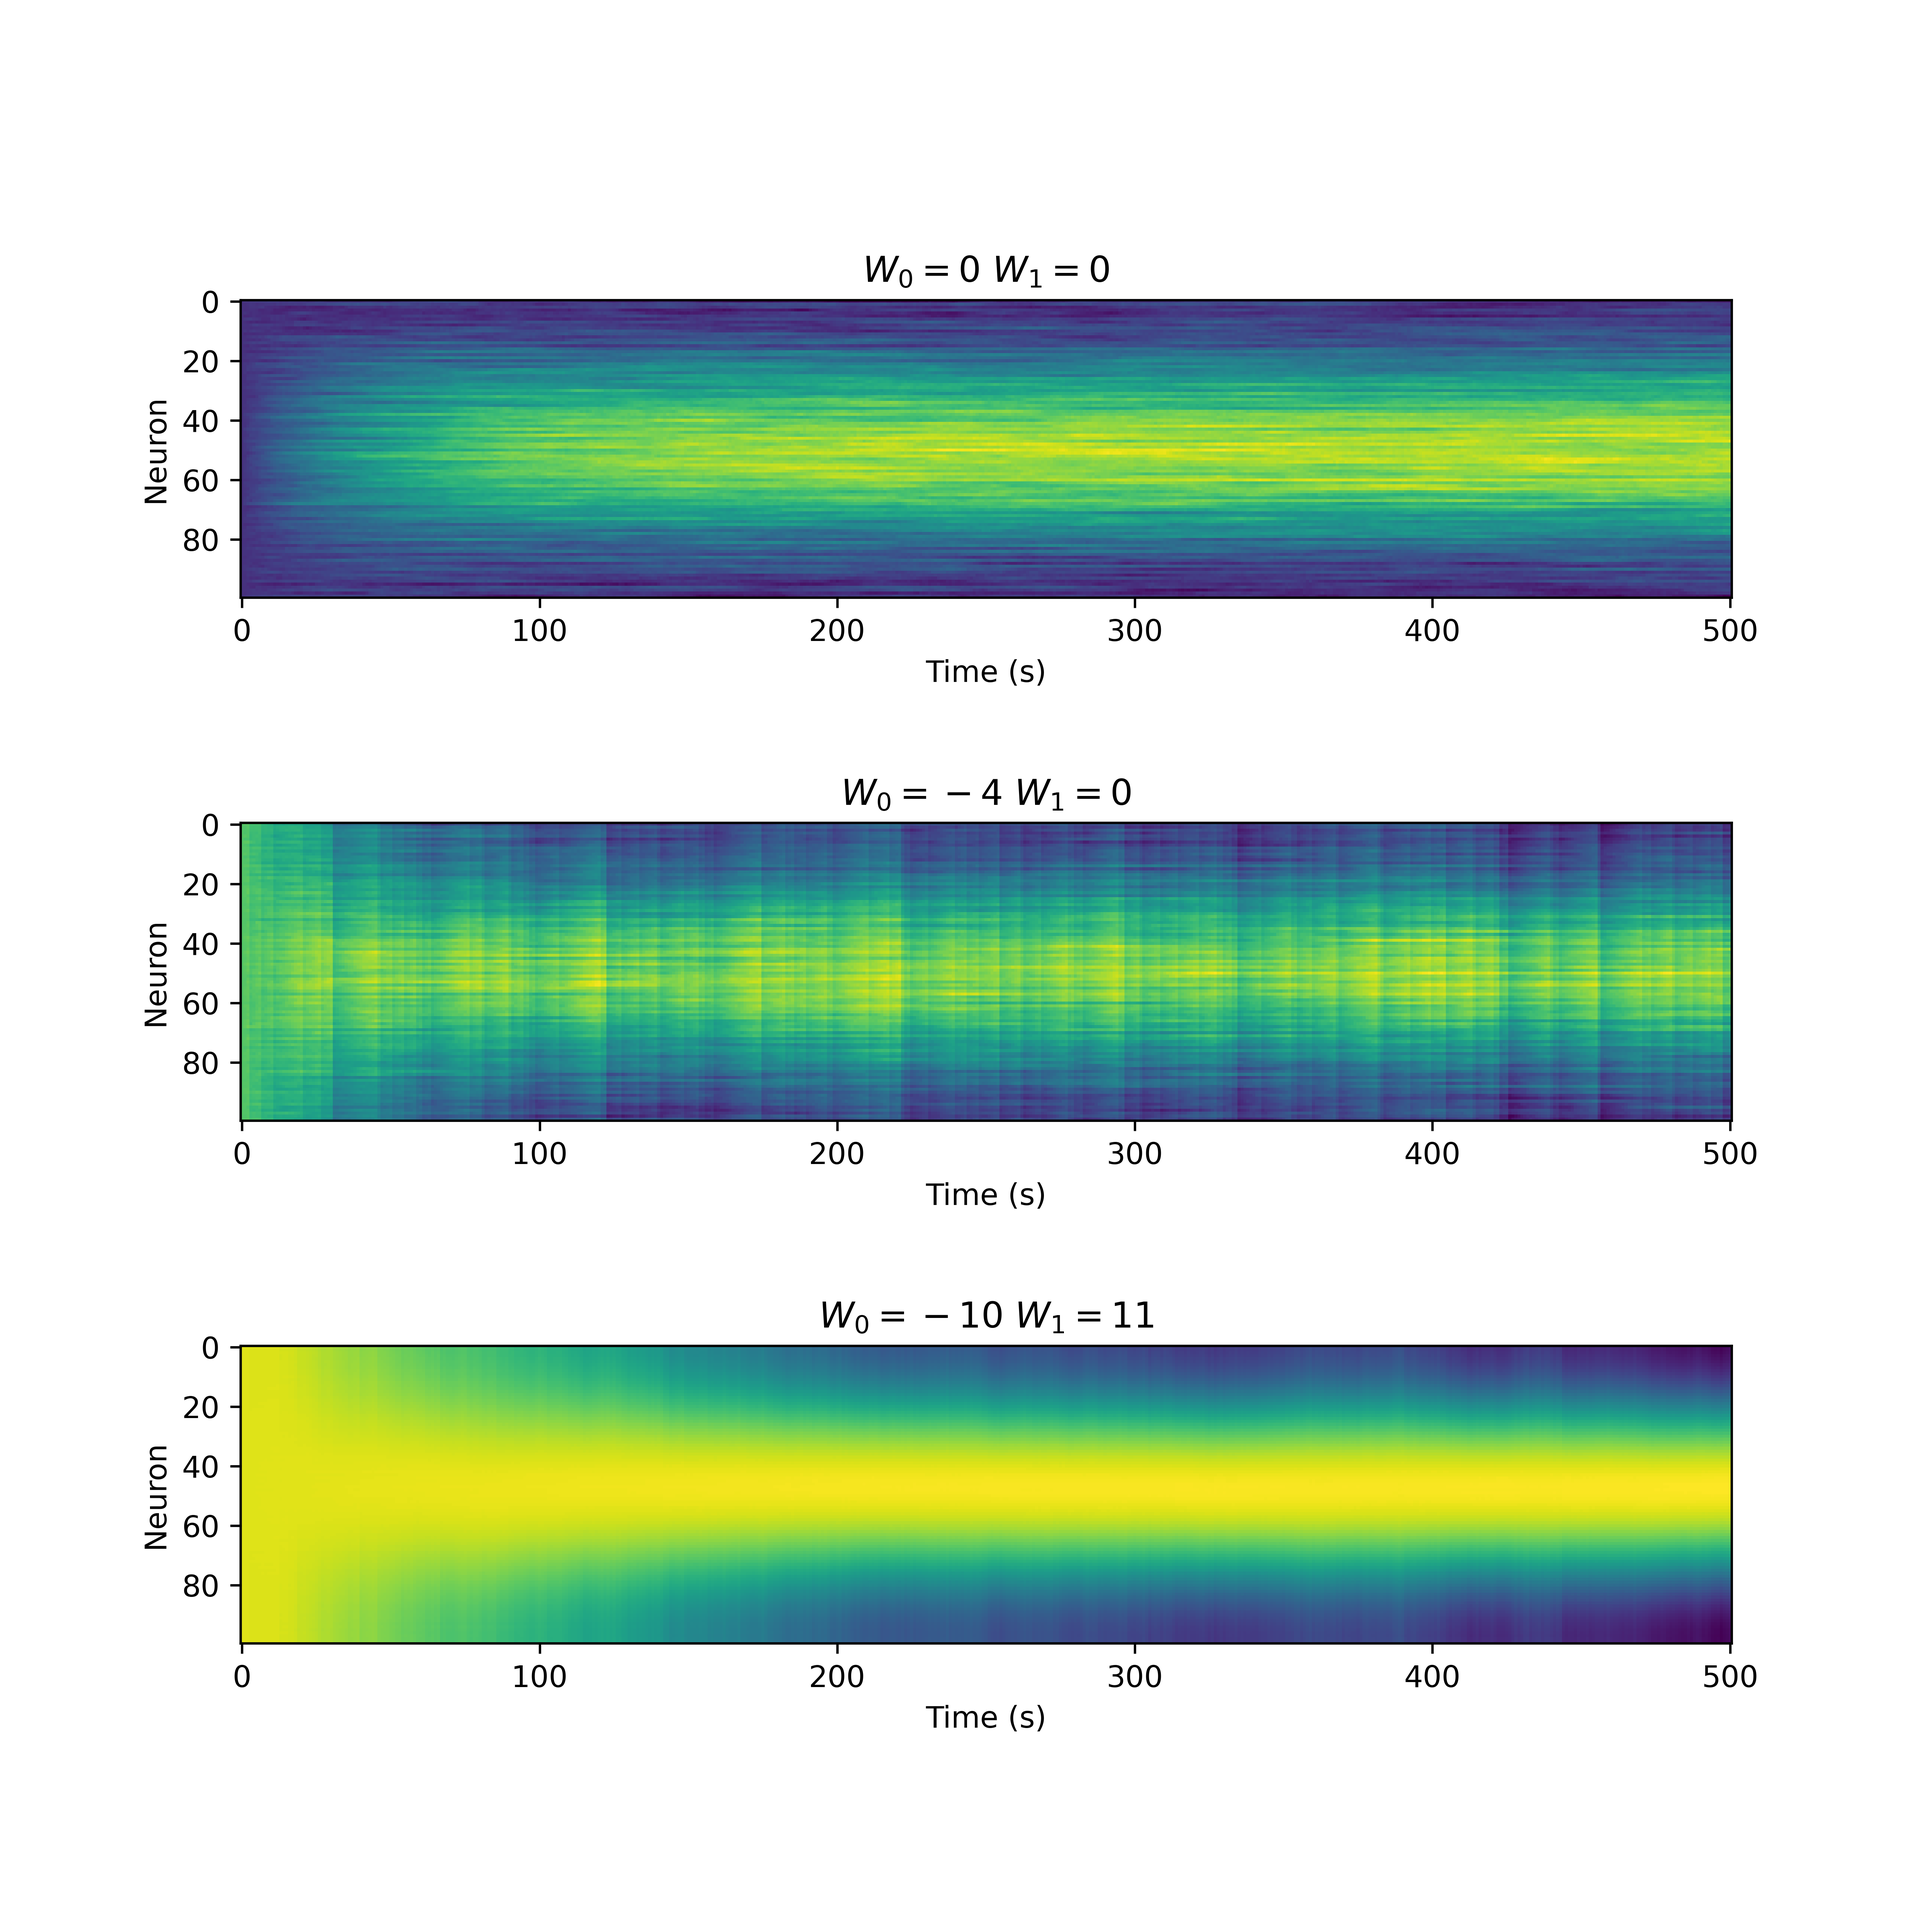
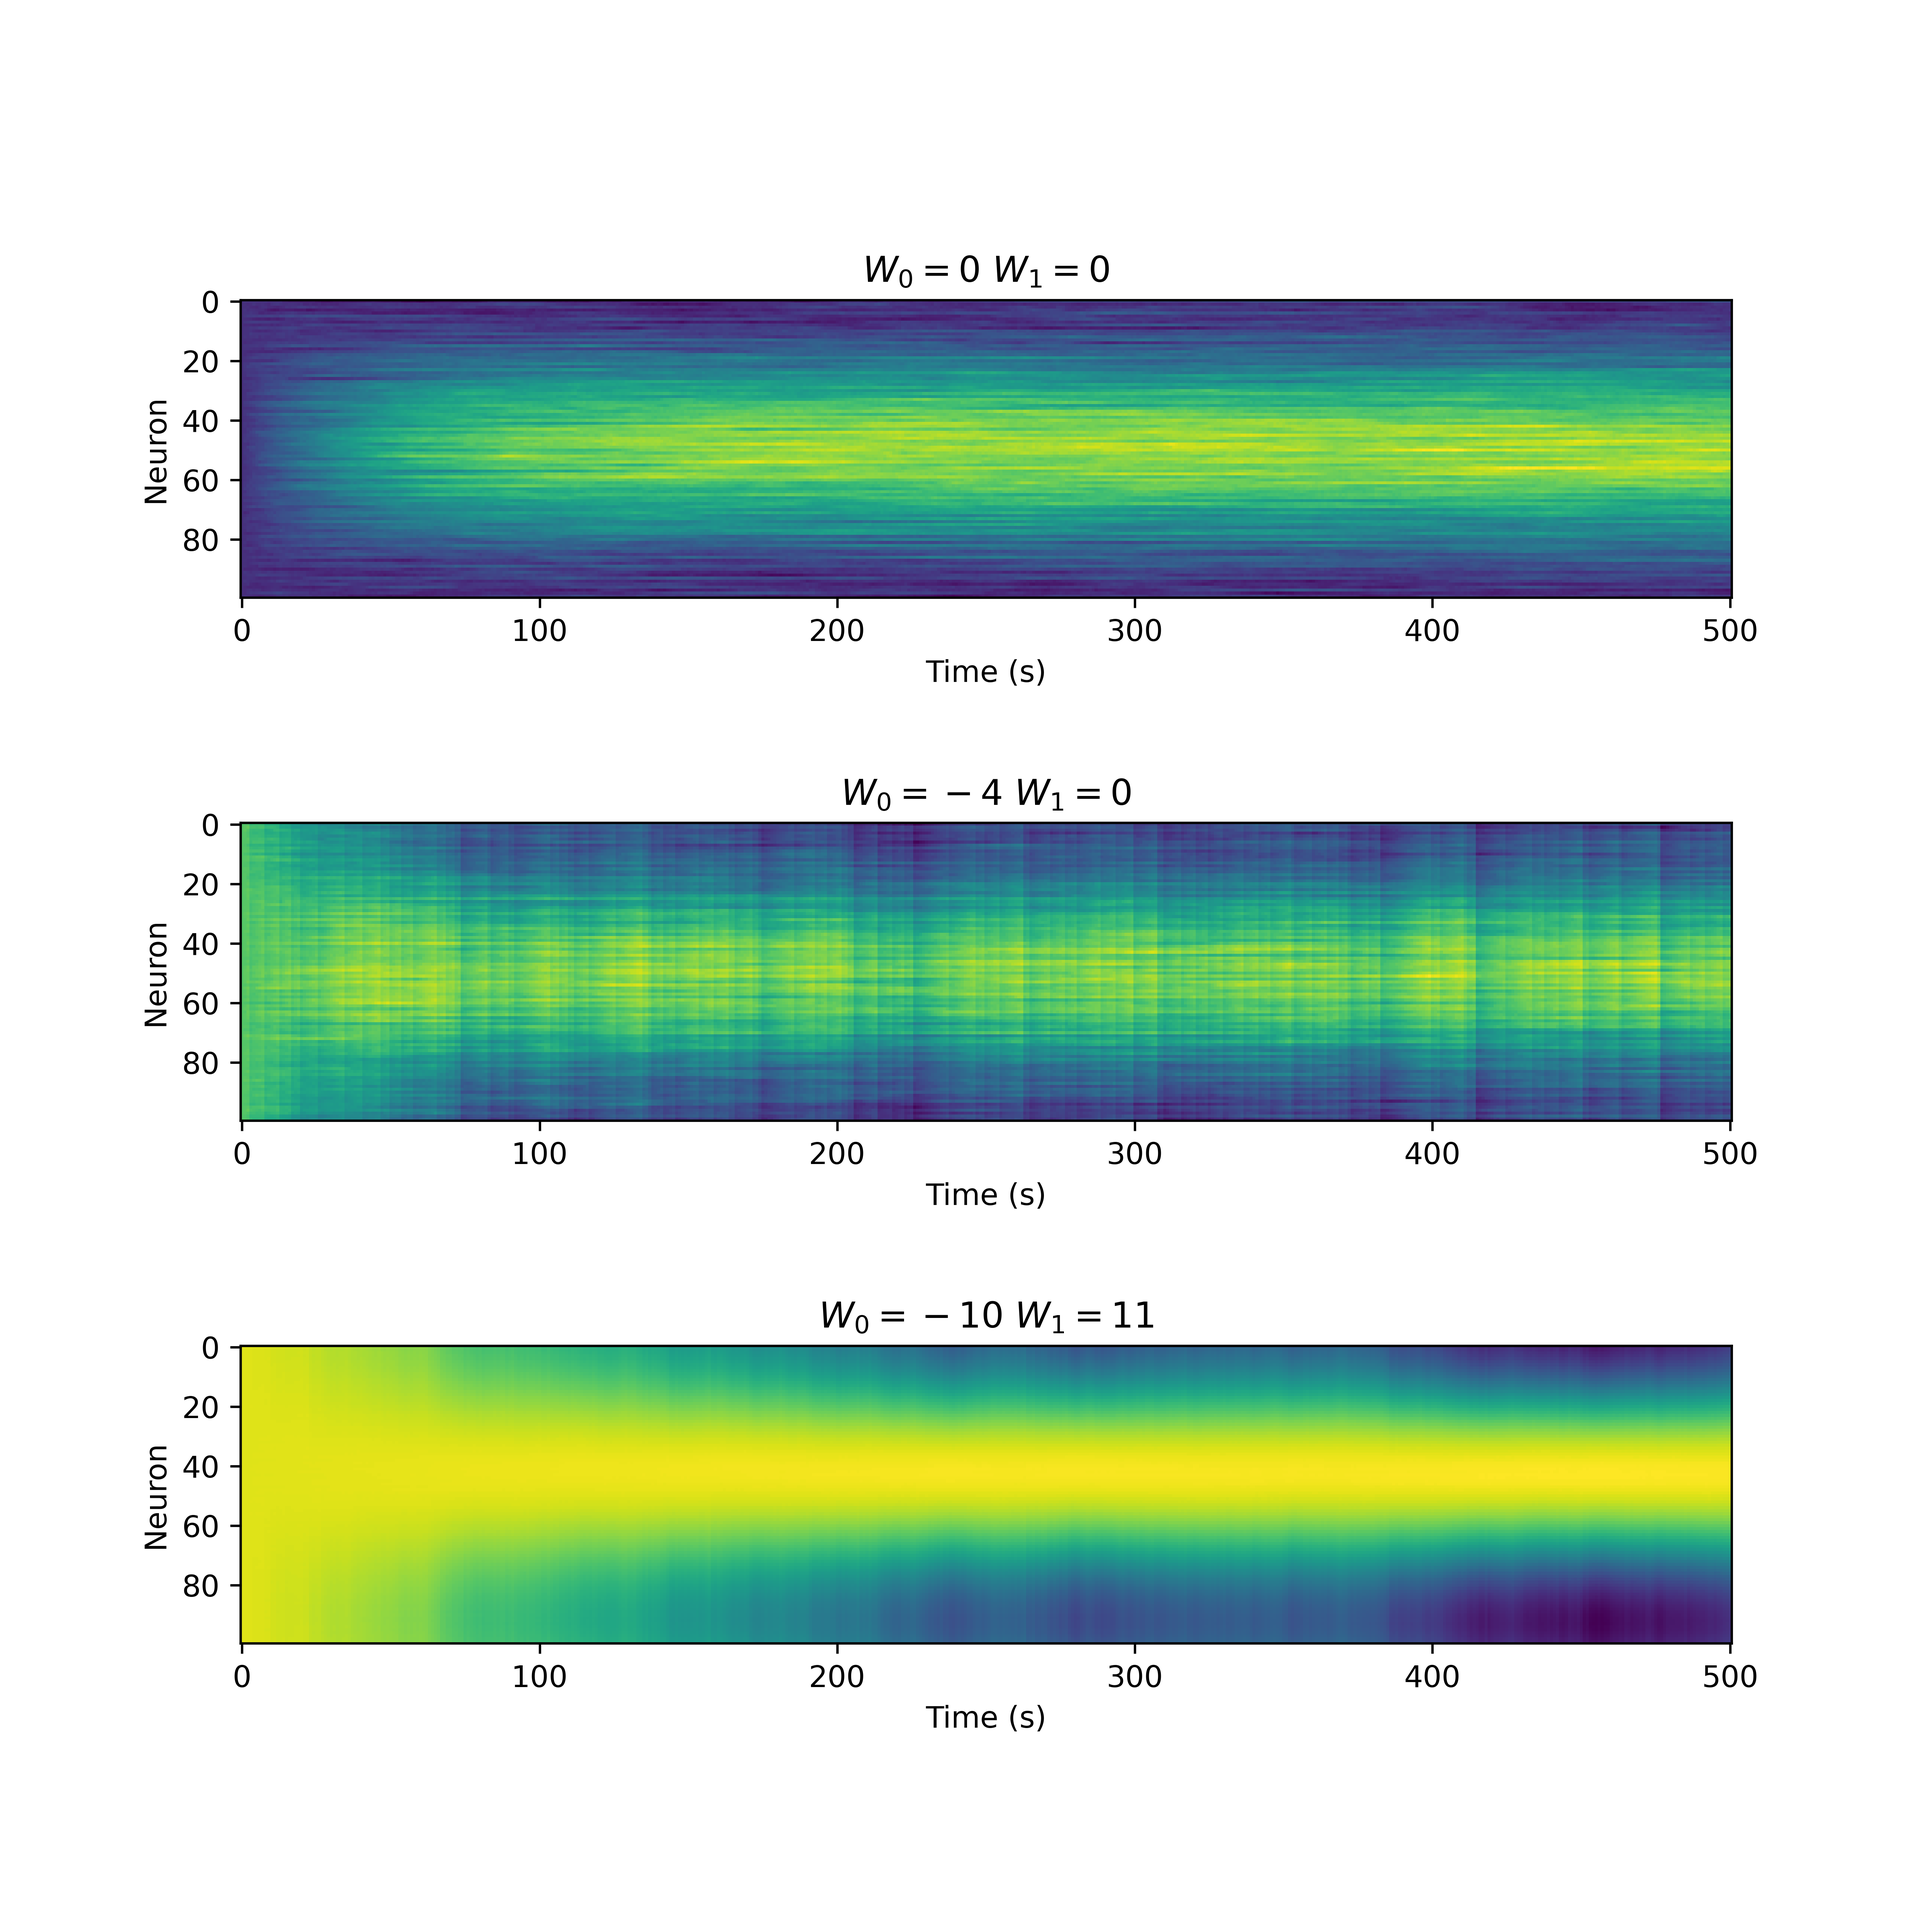
Switched to using seconds

diff --git a/ringNetwork.py b/ringNetwork.py
@@ -5,28 +5,29 @@ from tqdm import trange
 class RingNetwork:
     def __init__(self, N, W0, W1):
         self.N = N
-        self.s = np.linspace(-np.pi / 2, np.pi / 2, N+1)[:-1] 
+        self.s = np.linspace(-np.pi, np.pi, N+1)[:-1] 
 
-        self.W = W1 * np.cos(2*(self.s[:,None] - self.s[None,:])) + W0
+        self.W = W1 * np.cos(self.s[:,None] - self.s[None,:]) + W0
 
-    def simulate(self, s=0, dt=1, T=500, V0=0, tau=50, beta=0.1, sigma=0.1, u0=0.5, u1=0.5, seed=1, verbose=False):
+    def simulate(self, s=0, dt=0.001, T=0.5, V0=0, tau=0.05, beta=0.1, sigma=0.1, u0=0.5, u1=0.5, seed=None, verbose=False):
         n_timesteps = int(T/dt + 0.5)
-        np.random.seed(seed)
+        if seed is not None:
+            np.random.seed(seed)
 
         V = np.zeros((n_timesteps + 1, self.N))
         N = np.zeros((n_timesteps + 1, self.N))
 
         V[0,:] = V0
-        u = u0 + u1 * np.cos(2*(s - self.s))
+        u = u0 + u1 * np.cos(s - self.s)
 
         def act(x):
-            return np.max(np.array([np.zeros(x.shape), x * beta]), axis=0)
+            return beta * np.max(np.array([np.zeros(x.shape), x]), axis=0)
 
         for i in trange(1,n_timesteps + 1, desc="Simulating...", disable=not verbose):
             v = V[i-1,:]
             q = np.random.normal(np.zeros(self.N), np.ones(self.N))
 
-            n = np.random.poisson(act(v), v.shape)
+            n = np.random.poisson(act(v) * dt * 1e3, v.shape)
             N[i,:] = n
 
             dv_tdt = -v + self.W @ n + u + np.sqrt(tau / dt) * q * sigma

diff --git a/q6_decoders.py b/q6_decoders.py
@@ -1,0 +1,44 @@
+import matplotlib.pyplot as plt
+
+from ringNetwork import RingNetwork
+from decoders import *
+
+fig, axs = plt.subplots(2,3, figsize=(16, 8))
+
+ax1 = [axs[0,0], axs[1,0]]
+ax2 = [axs[0,1], axs[1,1]]
+ax3 = [axs[0,2], axs[1,2]]
+
+def simulate(W0, W1, ax):
+    rn = RingNetwork(100, W0, W1)
+
+    _, N = rn.simulate(verbose=True)
+
+    Nc = get_cumulative_counts(N)
+
+    wta = winner_take_all_decode(Nc, rn.s)
+    pv = population_vector_decode(Nc, rn.s, angle_multipltier=2)
+
+    wta_cmse = get_cumulative_mse(wta, 0)
+    pv_cmse = get_cumulative_mse(pv, 0)
+
+    ax[0].plot(wta_cmse, label="Winner Take All")
+    ax[0].plot(pv_cmse, label="Population Vector")
+    ax[0].set_xlabel("Time (ms)")
+    ax[0].set_ylabel("Cumulative MSE")
+    ax[0].legend()
+
+    ax[1].plot(wta, label="Winner Take All")
+    ax[1].plot(pv, label="Population Vector")
+    ax[1].set_xlabel("Time (ms)")
+    ax[0].set_ylabel("MSE")
+    ax[1].legend()
+
+simulate(0, 0, ax1)
+simulate(-4, 0, ax2)
+simulate(-10, 11, ax3)
+
+fig.suptitle(f"Cumulative MSE For Decoded Value", fontsize=16)
+plt.savefig("q4.png", dpi=600)    
+
+    

diff --git a/tests/test_ringNetwork.py b/tests/test_ringNetwork.py
@@ -4,8 +4,8 @@ import numpy as np
 
 def test_s():
     rn = RingNetwork(100, 0, 0)
-    assert max(rn.s) < np.pi / 2
-    assert min(rn.s) == -np.pi / 2
+    assert max(rn.s) < np.pi
+    assert min(rn.s) == -np.pi
     assert len(rn.s) == rn.N
 
 def test_W():
@@ -33,11 +33,11 @@ def test_W0():
 def test_sim():
     def t(N, dt, T):
         rn = RingNetwork(N, 0, 0)
-        V, _ = rn.simulate(dt=dt, T=T)
+        V, _ = rn.simulate(dt=dt, T=T, verbose=True)
         assert V.shape == (int(T/dt + 1.5), N)
 
-    for _ in range(100):
+    for _ in range(10):
         N = np.random.randint(10, 100)
-        dt = np.random.random() 
-        T = 1 + np.random.random() * 10
+        dt = np.random.random() * 1e-3
+        T = 1 + np.random.random() * 1e-2
         t(N, dt, T)

diff --git a/q2_tuning_curves.py b/q2_tuning_curves.py
@@ -5,7 +5,7 @@ import random
 from ringNetwork import RingNetwork
 from tqdm import trange
 
-fig, (ax1, ax2, ax3) = plt.subplots(3)
+fig, ax = plt.subplots()
 
 fig.set_figheight(9)
 fig.set_figwidth(9)
@@ -21,15 +21,14 @@ def simulate(W0, W1, ax):
     Va = np.mean(Vs, axis=0)
     V_tune = np.mean(Va[t:t+Dt, :], axis=0)
 
-    ax.plot(V_tune)
+    ax.plot(V_tune, label=f"$W_0={W0}$ $W_1={W1}$")
     ax.set_xlabel("Neuron")
     ax.set_ylabel("V")
-    ax.set_title(f"$W_0={W0}$ $W_1={W1}$")
     
 
-simulate(0, 0, ax1)
-simulate(-4, 0, ax2)
-simulate(-10, 11, ax3)
+simulate(0, 0, ax)
+simulate(-4, 0, ax)
+simulate(-10, 11, ax)
 
 fig.suptitle(f"From t={t}ms to t={t + Dt}ms, {n_runs} repetitions", fontsize=16)
 plt.tight_layout()
